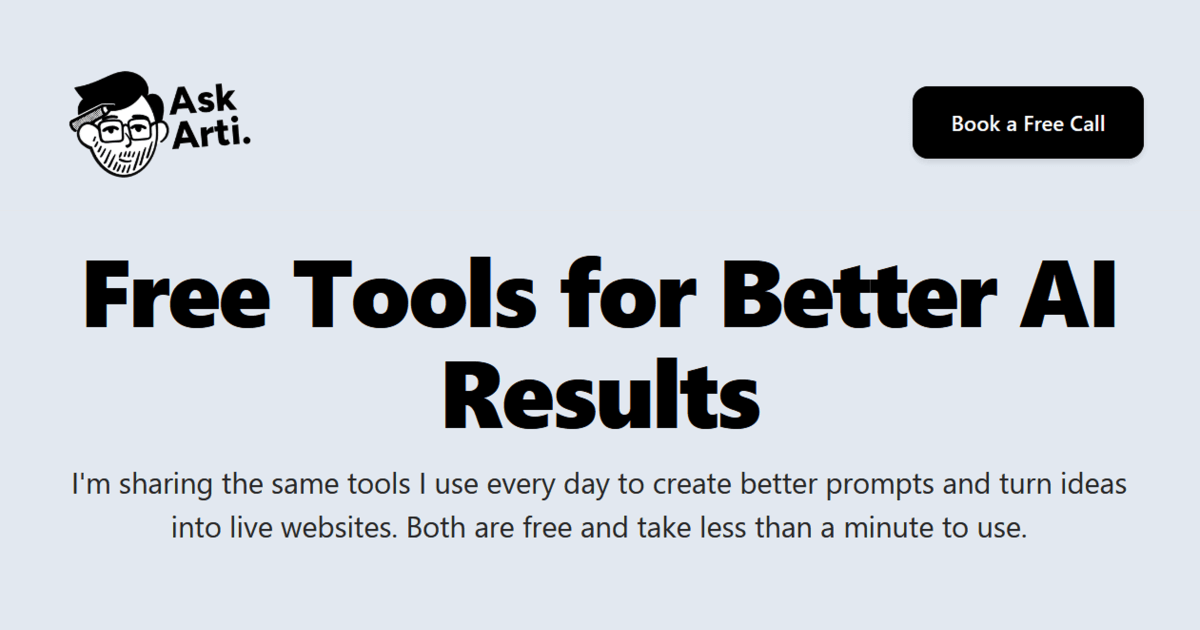
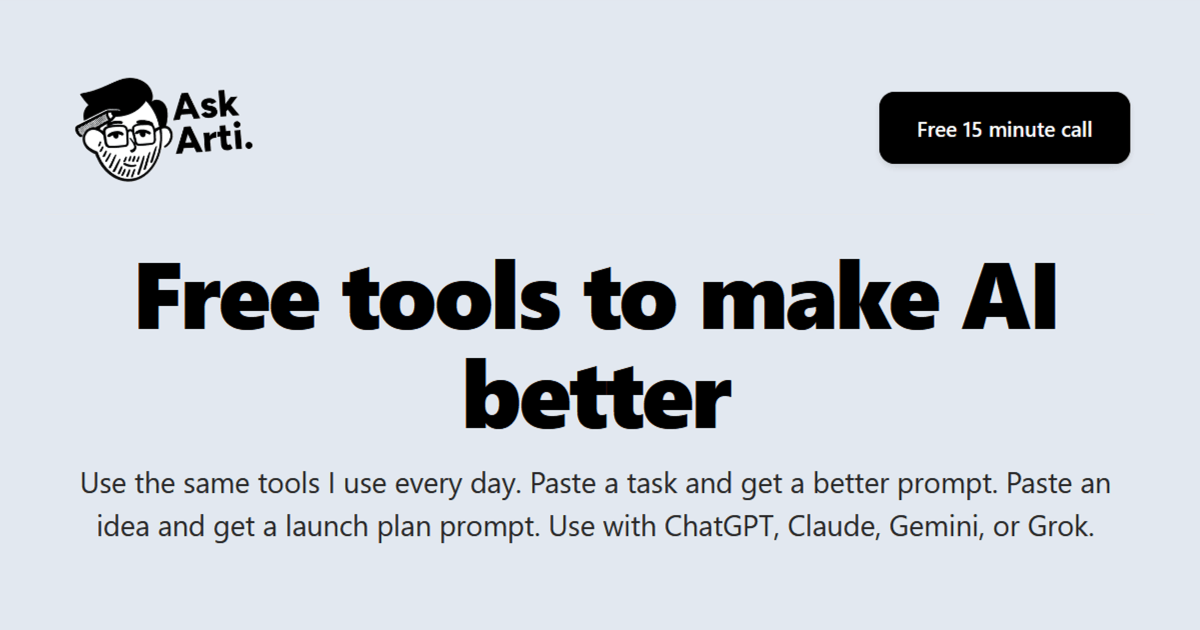
Add files via upload

diff --git a/index.html b/index.html
@@ -840,7 +840,7 @@ html {
           <img src="asklite.png" alt="AskArti Logo">
         </a>
         <div class="nav-links">
-          <a href="https://calendly.com/markflournoy/intro" target="_blank" class="btn btn-primary">Book a Free Call</a>
+          <a href="https://calendly.com/markflournoy/intro" target="_blank" class="btn btn-primary">Free 15 minute call</a>
         </div>
       </div>
     </div>
@@ -851,9 +851,9 @@ html {
     <section class="hero">
       <div class="container">
         <div class="hero-content">
-          <h1>Free Tools for Better AI Results</h1>
+          <h1>Free tools to make AI better</h1>
           <p class="lead">
-            I'm sharing the same tools I use every day to create better prompts and turn ideas into live websites. Both are free and take less than a minute to use.
+            Use the same tools I use every day. Paste a task and get a better prompt. Paste an idea and get a launch plan prompt. Use with ChatGPT, Claude, Gemini, or Grok.
           </p>
           <div class="hero-cta">
             <!-- Removed Try the Tools button -->
@@ -875,11 +875,12 @@ html {
             
             <div class="input-group">
               <textarea 
-                class="input-field" 
-                id="promptInput" 
-                placeholder="e.g., help me write an account plan, create a GTM strategy, prep for an interview..."
-                rows="4"
-              ></textarea>
+  class="input-field" 
+  id="promptInput" 
+  placeholder="Paste what you’re trying to do. Example: 'Build an account plan for VA focused on zero-trust' or 'Prep for a DHS interview with 5 real questions.'"
+  rows="4"
+></textarea>
+
             </div>
             <button class="submit-btn" id="generatePromptBtn">
               <span id="promptBtnText">Make My Prompt Better</span>
@@ -900,15 +901,16 @@ html {
             </div>
             
             <div class="input-group">
-              <textarea 
-                class="input-field" 
-                id="mvpInput" 
-                placeholder="Ready to escape your 9to5? Drop your big idea here and get a launch plan and prompt to build your website."
-                rows="4"
-              ></textarea>
+             <textarea 
+  class="input-field" 
+  id="mvpInput" 
+  placeholder="Describe your idea in a sentence. Example: 'Simple tool that helps SMBs with FEDRAMP' or 'Godzilla Taco truck empire'"
+  rows="4"
+></textarea>
+
             </div>
             <button class="submit-btn" id="generateMvpBtn">
-              <span id="mvpBtnText">Build My Slingshot</span>
+              <span id="mvpBtnText">Get My Launch Plan</span>
               <div id="mvpSpinner" class="spinner hidden"></div>
             </button>
             <div id="mvpLoading" class="loading-message hidden">
@@ -928,17 +930,18 @@ html {
 			      <div class="hero-badge">
               <img src="https://askarti.com/arti_right.png" alt="Arti character" onerror="this.onerror=null;this.src='https://placehold.co/100x100/e2e8f0/000000?text=Arti';">
             </div>
-            <h2>Want More Help?</h2>
+            <h2>Need Help?</h2>
             <p>
               If you want to go deeper with AI or need help with something specific, let's chat and see where I can help.
             </p>
             <div class="help-cta-buttons">
               <a href="https://calendly.com/markflournoy/intro" target="_blank" class="btn btn-primary btn-large">
-                Book a Quick Call
-              </a>
-              <a href="https://www.linkedin.com/in/markflournoy/" target="_blank" class="btn btn-linkedin btn-large">
-                Follow me on LinkedIn
-              </a>
+  Free 15 minute call
+</a>
+<a href="https://www.linkedin.com/in/markflournoy/" target="_blank" class="btn btn-linkedin btn-large">
+  Follow on LinkedIn
+</a>
+
             </div>
         </div>
       </div>
@@ -1028,7 +1031,7 @@ async function generateMvpPlan() {
   const input = document.getElementById('mvpInput').value.trim();
   
   if (!input) {
-    alert('Please describe your bid idea.');
+    alert('Please describe your big idea.');
     return;
   }
 
@@ -1226,14 +1229,15 @@ function showMvpResult(launchPlan, originalInput) {
       <p><strong>How to use:</strong> Follow the timeline, use the prompt to build your landing page, and track the success metrics to validate your idea.</p>
     </div>
     
-    <div class="cta-card">
-      <h4>Need Help?</h4>
-      <p>Let's jump on a quick call.</p>
-      <div class="cta-buttons">
-        <a href="https://calendly.com/markflournoy/intro" target="_blank" class="btn btn-primary">Free 15 min Chat</a>
-        <a href="https://calendly.com/markflournoy/deepdive" target="_blank" class="btn btn-secondary">1 hr Deep Dive - $99</a>
-      </div>
-    </div>
+   <div class="cta-card">
+  <h4>Want help applying this to your real work?</h4>
+  <p>Book a quick call. We can screen share, use your real problem, and leave with next steps you can use today.</p>
+  <div class="cta-buttons">
+    <a href="https://calendly.com/markflournoy/intro" target="_blank" class="btn btn-primary">Free 15 minute call</a>
+    <a href="https://calendly.com/markflournoy/deepdive" target="_blank" class="btn btn-secondary">1 hour deep dive - $99</a>
+  </div>
+</div>
+
   `;
   
   resultsSection.classList.add('show');
